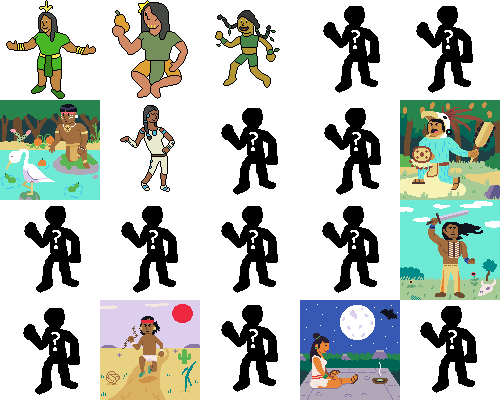
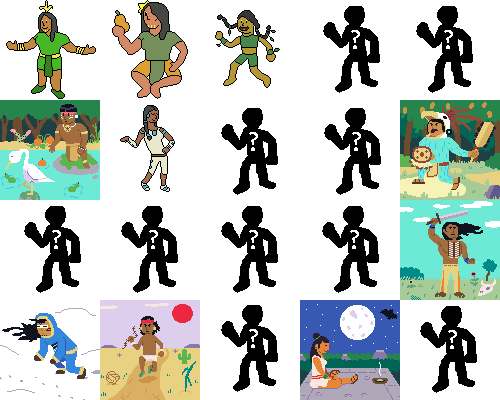
Tracker graphic

Changed region(s): [[0.0, 0.75, 0.18, 0.99]]

diff --git a/src/game.ts b/src/game.ts
@@ -57,7 +57,7 @@ export default class Game {
       time: Time.DAY,
       cave: false
     };
-    this.party.populate('sword holder', 'moon priestess', 'eagle knight', 'runner');
+    this.party.populate('sword holder', 'tracker', 'eagle knight', 'runner');
     this.chain.futureEvent(new TimeEvent(this), DAY_NIGHT_CYCLE);
   }
 
